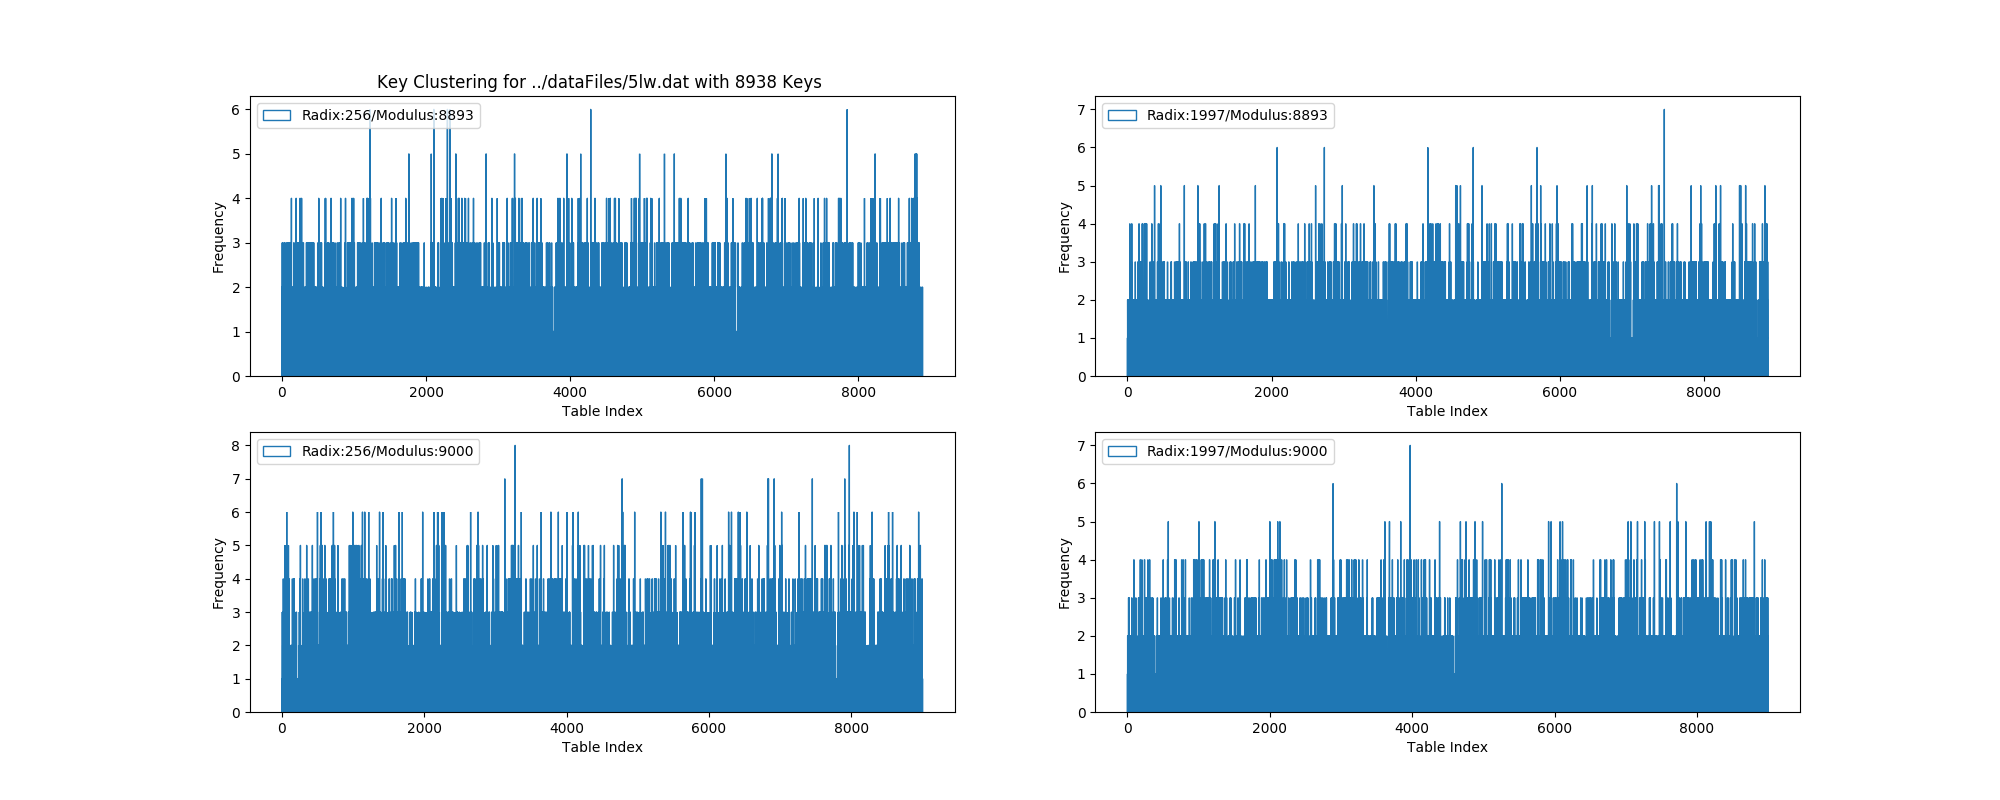
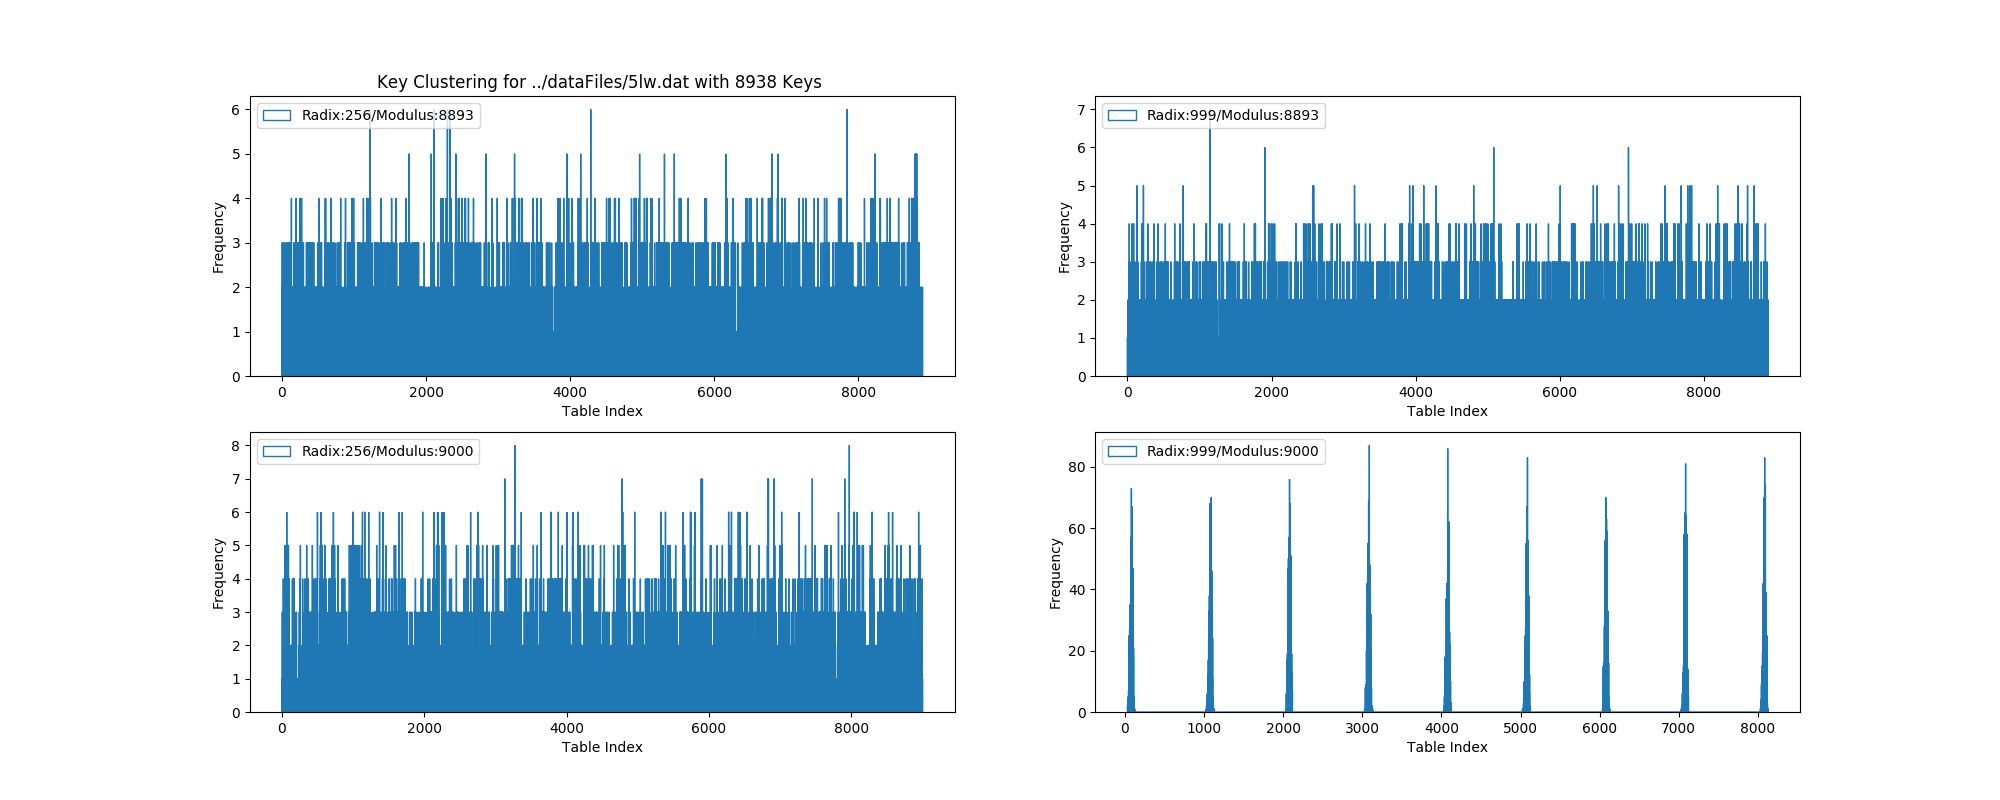
Test prime

diff --git a/src/plot.py b/src/plot.py
@@ -135,16 +135,16 @@ test_modulus_radix_pairs_hist('../dataFiles/5lw-m.dat', '../plots/5lwmplot.png',
 
 
 radices = [128, 256]
+moduli = [512, 2048, 5555, 1997]
+test_modulus_radix_pairs_hist('../dataFiles/5lw.dat', '../plots/5lwplot.png', moduli, radices)
+plot_histogram_hash('../dataFiles/5lw.dat', '../plots/5lwplot2.png', moduli, radices)
+
+radices = [128, 256]
 moduli = [32, 127, 97]
 test_modulus_radix_pairs_hist('../dataFiles/5lw-s.dat', '../plots/5lwsplot.png', moduli, radices)
 plot_histogram_hash('../dataFiles/5lw-s.dat', '../plots/5lwsplot2.png', moduli, radices)
 '''
 
-radices = [128, 256]
-moduli = [512, 2048, 5555, 1997]
-test_modulus_radix_pairs_hist('../dataFiles/5lw.dat', '../plots/5lwplot.png', moduli, radices)
-plot_histogram_hash('../dataFiles/5lw.dat', '../plots/5lwplot2.png', moduli, radices)
-
-radices = [256, 1997] # prime and power of 2
+radices = [256, 999] # prime and power of 2
 moduli = [8893, 9000]
 test_modulus_radix_pairs_hist('../dataFiles/5lw.dat', '../plots/5lw_primeplot.png', moduli, radices)
